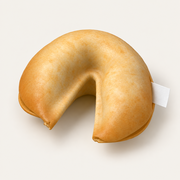
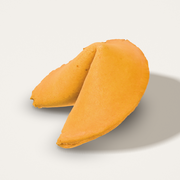
Real screenshots, funnier README, GitHub Pages instead of Vercel

diff --git a/index.html b/index.html
@@ -9,11 +9,11 @@
     <meta property="og:type" content="website" />
     <meta property="og:title" content="Fortune Cookie" />
     <meta property="og:description" content="Crack open a photo-real fortune cookie. Real physics, a crumpled paper slip, and a new fortune every time." />
-    <meta property="og:url" content="https://fortune-cookie-khaki.vercel.app/" />
-    <meta property="og:image" content="https://fortune-cookie-khaki.vercel.app/social-preview.jpg" />
-    <meta property="og:image:alt" content="A fortune cookie snapped in half with the paper slip between the halves" />
-    <meta property="og:image:width" content="1200" />
-    <meta property="og:image:height" content="630" />
+    <meta property="og:url" content="https://davidyen1124.github.io/fortune-cookie/" />
+    <meta property="og:image" content="https://davidyen1124.github.io/fortune-cookie/social-preview.jpg" />
+    <meta property="og:image:alt" content="A paper fortune slip floating above a fortune cookie that has just been cracked in half" />
+    <meta property="og:image:width" content="1280" />
+    <meta property="og:image:height" content="640" />
     <meta name="twitter:card" content="summary_large_image" />
     <link rel="icon" href="/favicon.png" type="image/png" />
     <link rel="apple-touch-icon" href="/apple-touch-icon.png" />

diff --git a/README.md b/README.md
@@ -1,44 +1,80 @@
-# Fortune Cookie
+# 🥠 Fortune Cookie
 
-> Tap a fortune cookie. It snaps, the crumbs scatter, and a slightly crumpled slip of paper floats up with your fortune.
-> The cookie obeys physics. The paper just does what it's told.
+> All of the wisdom. None of the calories. No need to order the General Tso's first.
 
-![A fortune cookie snapped in half on a white table, with the slip between the halves](public/social-preview.jpg)
+![A fortune slip floating above a freshly cracked fortune cookie](public/social-preview.jpg)
 
-**🥠 Crack one open: <https://fortune-cookie-khaki.vercel.app>**
+**Crack one open: <https://davidyen1124.github.io/fortune-cookie/>**
 
-## What it does
+## What is this?
 
-1. A fortune cookie sits on a seamless white studio table. The slip is inside it.
-2. Tap it. It snaps across the notch, the way a real one does: the two arms hinge apart, slide a few centimetres and rock to rest, and crumbs spill from the break.
-3. The slip, which was wrapped round the notch inside, shows in the broken half, is drawn out, straightens, and comes up to you while the table behind goes softly out of focus. It's a 57 × 16 mm slip in Wonton-Food blue, with lucky numbers on the front and a Learn Chinese lesson on the back. Tap the slip, or press **Turn over**, to read the back.
-4. **Another cookie** clears the table and sets down a new one. Fortunes don't repeat until you've read the last 60.
+It's the best part of Chinese takeout, minus the takeout. A fortune cookie sits on a white table, minding its own business. You tap it. It snaps in half, crumbs go everywhere, and a slightly crumpled slip of paper floats up to tell you something encouraging and unverifiable.
 
-## How it's made
+![The whole thing, start to finish](docs/crack.gif)
 
-- **The cookie is a real one.** It's a photogrammetry scan: ["Fortune Cookie" by Frank McMains](https://sketchfab.com/3d-models/fortune-cookie-47018f5b63ef477484f5e25debb484df) (about 350 photos, processed in Metashape), used under [CC BY 4.0](https://creativecommons.org/licenses/by/4.0/). The copy in `art/scan/` comes from the Objaverse mirror of that model.
-- **Blender** ([`blender/build_scan.py`](blender/build_scan.py)) prepares the scan:
-  - welds its texture islands into one surface and finds the cookie's own frame from its mirror symmetry (across the arms, shell normal, toward the tips)
-  - scales it to life size using the slip in the scan, which comes out about 50 mm across
-  - lifts the scanned slip stub off the mesh and closes the shell where it was, so the cookie starts whole with the slip hidden inside
-  - cuts the shell into two hollow halves along a chipped line across the notch, four different ways, and gives them a wall thickness and a broken edge
-  - exports the meshes (glTF, meshopt-compressed), convex-hull colliders, each piece's mass and inertia (the cookie weighs 8 g), the break lines and where the slip sits
-  - [`blender/build_studio.py`](blender/build_studio.py) renders the studio (a white sweep, softboxes) into the HDR light probe the page is lit with.
-- **Textures:** the crust is the scan's own photo texture. The broken edge and the paper fibre are macro scans made with the Codex CLI `imagegen` skill (`art/imagegen/`), as are the favicon and social card.
-- **Physics:** [Rapier](https://rapier.rs) at 240 Hz. The halves and the crumbs are real rigid bodies with baked-batter friction and bounce, plus a little air drag, since an 8 g shell is mostly air. The snap is an impulse that levers the two arms apart about the back of the cookie. After that it's all simulation.
-- **The slip isn't simulated.** It's animated on purpose: hidden inside until the snap, it rides in its half for a beat, slides out toward the gap, and comes up to the reader. It keeps the creases it got in the cookie (faceted folds, a few crinkles, a curl) and is printed like the real thing:
-  - condensed bold sans in blue, a register tab, and "Lucky Numbers" with six numbers from 1 to 56 in draw order
-  - on the back, a Learn Chinese word in traditional characters with tone-marked pinyin
-  - each side faintly shows through the other
-- **Fortunes:** 246 of them in [`src/fortunes.js`](src/fortunes.js), written in the house style after reading a few hundred real slips. The 138 Learn Chinese entries were checked against CC-CEDICT.
-- **Sound:** no audio files. The crack is a sharp broadband snap followed by a scatter of micro-fractures. Each landing makes a hollow tap, and each crumb a tiny tick, all driven by the physics contact impulses. The slip rustles when it comes out.
+Everything on this page is a real screenshot of the site, not concept art. The cookie really does look like that.
 
-## Run it
+## How to use
+
+1. Think of a question. Or don't. The cookie wasn't going to answer it anyway.
+2. Tap the cookie.
+3. Read your fortune. Add "in bed" to the end if you're twelve, or if you're an adult at a restaurant with friends.
+4. Tap the slip (or **Turn over**) to learn one Chinese word. This is the educational part. You're welcome.
+5. Hit **Another cookie**. Nobody's counting. There's no bill.
+
+| Before | During |
+|---|---|
+| ![A whole fortune cookie on a white table](docs/idle.jpg) | ![The cookie cracked in two, the slip showing inside one half](docs/crack.jpg) |
+
+| Your fortune | The educational part |
+|---|---|
+| ![The fortune slip, front](docs/fortune.jpg) | ![The fortune slip, back, with a Learn Chinese word](docs/back.jpg) |
+
+## FAQ
+
+**Is the fortune real?**
+As real as any fortune that was mass-printed in Queens and baked into a cookie. These ones are picked by `Math.random()`, which has roughly the same qualifications.
+
+**Why did I get the same cookie twice?**
+You didn't. It's the same *scan* of one very photogenic cookie. But it breaks differently every time, the crumbs land where physics puts them, and the fortune won't repeat until you've read 60 others.
+
+**Are the lucky numbers lucky?**
+They're six numbers between 1 and 56, in the order they were drawn, exactly like the real slips. Whether they're lucky is between you and your state lottery commission.
+
+**Can I eat it?**
+It weighs 8 grams and is made of triangles.
+
+**Why is the Chinese on the back in Traditional characters?**
+Real American slips use Simplified. The management of this repository prefers Traditional. The management has spoken.
+
+**The cookie didn't crumble enough / crumbled too much.**
+Take it up with Newton.
+
+## What's inside
+
+- **A real cookie.** The model is a photogrammetry scan, ["Fortune Cookie" by Frank McMains](https://sketchfab.com/3d-models/fortune-cookie-47018f5b63ef477484f5e25debb484df), stitched from about 350 photos of an actual cookie. An earlier version of this project used a cookie modelled by hand. Its first reviewer said it looked "like shit". The real one is better.
+- **Blender** ([`blender/build_scan.py`](blender/build_scan.py)) does the prep work:
+  - works out which way the cookie is facing from its own symmetry, and scales it to life size (about 50 mm across)
+  - removes the slip that was sticking out of the scanned cookie and patches the shell, so the fortune stays a surprise
+  - cuts the cookie into two hollow halves along a chipped line, four different ways
+  - exports the meshes, collision shapes, and the mass and balance of every piece
+  - [`blender/build_studio.py`](blender/build_studio.py) renders the white photo studio the page is lit with.
+- **Physics:** [Rapier](https://rapier.rs) at 240 Hz. The halves and crumbs are real rigid bodies with their own weight, friction and bounce. The snap is one shove that levers the two arms apart. After that, nobody is in charge.
+- **The slip** is the one thing that *doesn't* obey physics, on purpose. It hides inside the cookie, wrapped round the notch like in a real one, then slides out and floats up to be read. It's a faithful copy of a real slip:
+  - 57 × 16 mm, blue ink, condensed bold type, a little blue register mark in the corner
+  - "Lucky Numbers" on the front, a Learn Chinese word with pinyin on the back
+  - you can faintly see each side through the other, because the paper is cheap
+- **Fortunes:** 246 of them in [`src/fortunes.js`](src/fortunes.js), written in the house style after reading a few hundred real slips. The 138 Learn Chinese words were checked against a dictionary, which is more than can be said for some real slips.
+- **Sound:** there are no audio files. The crack, the taps of the halves landing, the ticks of the crumbs and the rustle of the paper are all synthesized on the spot from what the physics engine says just happened.
+- **Rendering:** [three.js](https://threejs.org). When the slip comes up, the table behind it goes softly out of focus, the way it would through a macro lens.
+- **Textures for the broken edge and the paper** were made with the Codex CLI `imagegen` skill (`art/imagegen/`). The cookie's own surface is the scan's photo texture.
+
+## Run it locally
 
 ```bash
 npm install
-npm run dev            # http://localhost:5173
-npm run build          # static site in dist/
+npm run dev        # http://localhost:5173
+npm run build      # static site in dist/
 ```
 
 URL flags: `?seed=42` makes every cookie repeatable, `?manual` hands the clock to scripts (`window.__fc.advance(seconds)`), and `?nodof` turns off the depth of field.
@@ -46,24 +82,25 @@ URL flags: `?seed=42` makes every cookie repeatable, `?manual` hands the clock t
 Rebuilding the assets needs Blender 5:
 
 ```bash
-Blender -b -P blender/build_scan.py          # scan -> meshes, colliders, photo texture
-Blender -b -P blender/build_studio.py        # studio light probe
-./scripts/assets.sh                          # webp + meshopt
+Blender -b -P blender/build_scan.py      # scan -> meshes, collision shapes, photo texture
+Blender -b -P blender/build_studio.py    # studio light probe
+./scripts/assets.sh                      # webp + mesh compression
 ```
 
-Tests (Playwright; start `npx vite --port 5288` first):
+Tests use Playwright (start `npx vite --port 5288` first):
 
 ```bash
-node tests/stress.mjs   http://127.0.0.1:5288/ 30   # 30 cracks: nothing falls through the table, everything settles, fortunes stay fresh
-node tests/shots.mjs    http://127.0.0.1:5288/      # stage-by-stage screenshots at phone and desktop sizes
-node tests/realtime.mjs http://127.0.0.1:5288/ 390x844x3 3 webkit   # real taps, real clock
-node tests/video.mjs    http://127.0.0.1:5288/ 390x844x2 5 3        # frame-by-frame video of a crack
+node tests/stress.mjs   http://127.0.0.1:5288/ 30                    # 30 cracks: nothing falls through the table, everything settles
+node tests/realtime.mjs http://127.0.0.1:5288/ 390x844x3 3 webkit    # real taps, real clock, phone size
+node tests/shots.mjs    http://127.0.0.1:5288/                       # stage-by-stage screenshots
+node tests/press.mjs    http://127.0.0.1:5288/                       # the screenshots in this README
 ```
 
 ## Deploying
 
-The Vercel project `fortune-cookie` is connected to this repository: every push to `main` builds with Vite and goes live at <https://fortune-cookie-khaki.vercel.app>. The `.vercelignore` keeps the reference library, renders and Blender files out of CLI uploads.
+Pushing to `main` runs [a GitHub Actions workflow](.github/workflows/pages.yml) that builds with Vite and publishes `dist/` to GitHub Pages. The build uses relative paths, so it works under `/fortune-cookie/` or anywhere else.
 
 ## Credits
 
-- Cookie model: "Fortune Cookie" by [Frank McMains](https://sketchfab.com/frankmcmains), [CC BY 4.0](https://creativecommons.org/licenses/by/4.0/). Modified here: rescaled and re-oriented, simplified, slip removed and the shell closed, cut into halves.
+- Cookie model: "Fortune Cookie" by [Frank McMains](https://sketchfab.com/frankmcmains), licensed [CC BY 4.0](https://creativecommons.org/licenses/by/4.0/). Changes made here: rescaled and turned, simplified, slip removed and the shell patched, cut into halves.
+- The cookie that was scanned. It gave everything.
